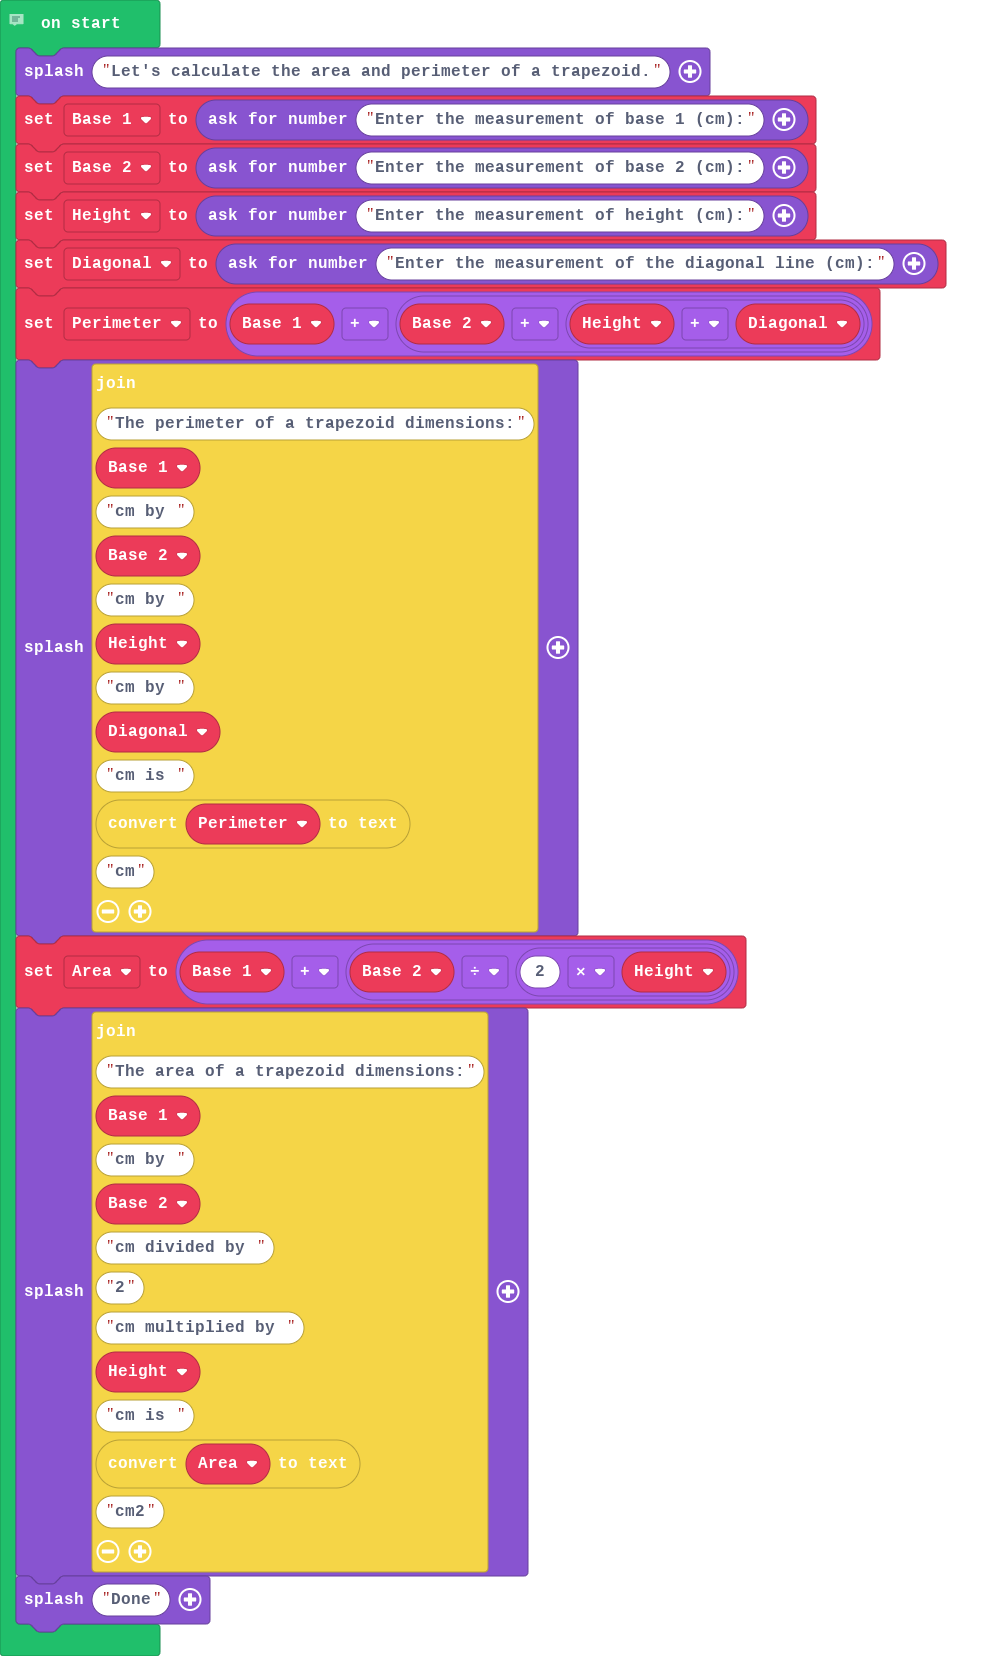
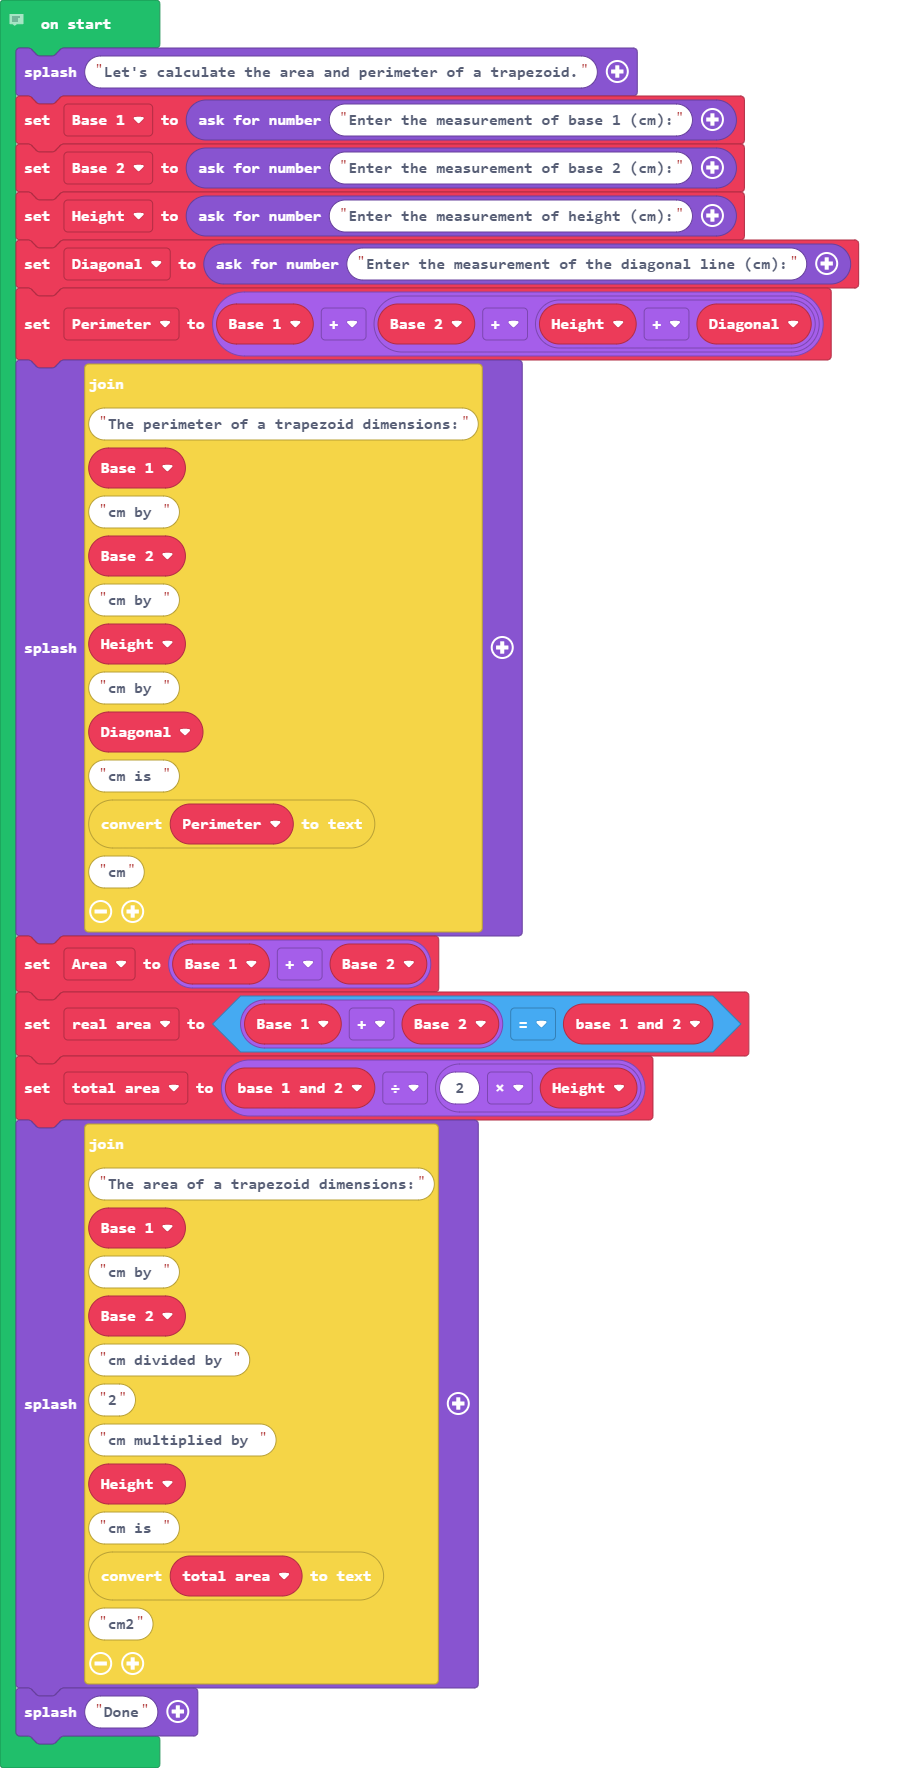
how to fix area

Changed region(s): [[0.0, 0.0, 0.9528, 1.0]]

diff --git a/main.ts b/main.ts
@@ -2,6 +2,7 @@
 // Created on: Oct 2020
 // 
 // This program allows us to calculate the perimeter and area of a trapezoid
+let base_1_and_2 = 0
 game.splash("Let's calculate the area and perimeter of a trapezoid.")
 let Base_1 = game.askForNumber("Enter the measurement of base 1 (cm):")
 let Base_2 = game.askForNumber("Enter the measurement of base 2 (cm):")
@@ -9,6 +10,8 @@ let Height = game.askForNumber("Enter the measurement of height (cm):")
 let Diagonal = game.askForNumber("Enter the measurement of the diagonal line (cm):")
 let Perimeter = Base_1 + (Base_2 + (Height + Diagonal))
 game.splash("The perimeter of a trapezoid dimensions:" + Base_1 + "cm by " + Base_2 + "cm by " + Height + "cm by " + Diagonal + "cm is " + convertToText(Perimeter) + "cm")
-let Area = Base_1 + Base_2 / (2 * Height)
-game.splash("The area of a trapezoid dimensions:" + Base_1 + "cm by " + Base_2 + "cm divided by " + "2" + "cm multiplied by " + Height + "cm is " + convertToText(Area) + "cm2")
+let Area = Base_1 + Base_2
+let real_area = Base_1 + Base_2 == base_1_and_2
+let total_area = base_1_and_2 / (2 * Height)
+game.splash("The area of a trapezoid dimensions:" + Base_1 + "cm by " + Base_2 + "cm divided by " + "2" + "cm multiplied by " + Height + "cm is " + convertToText(total_area) + "cm2")
 game.splash("Done")
